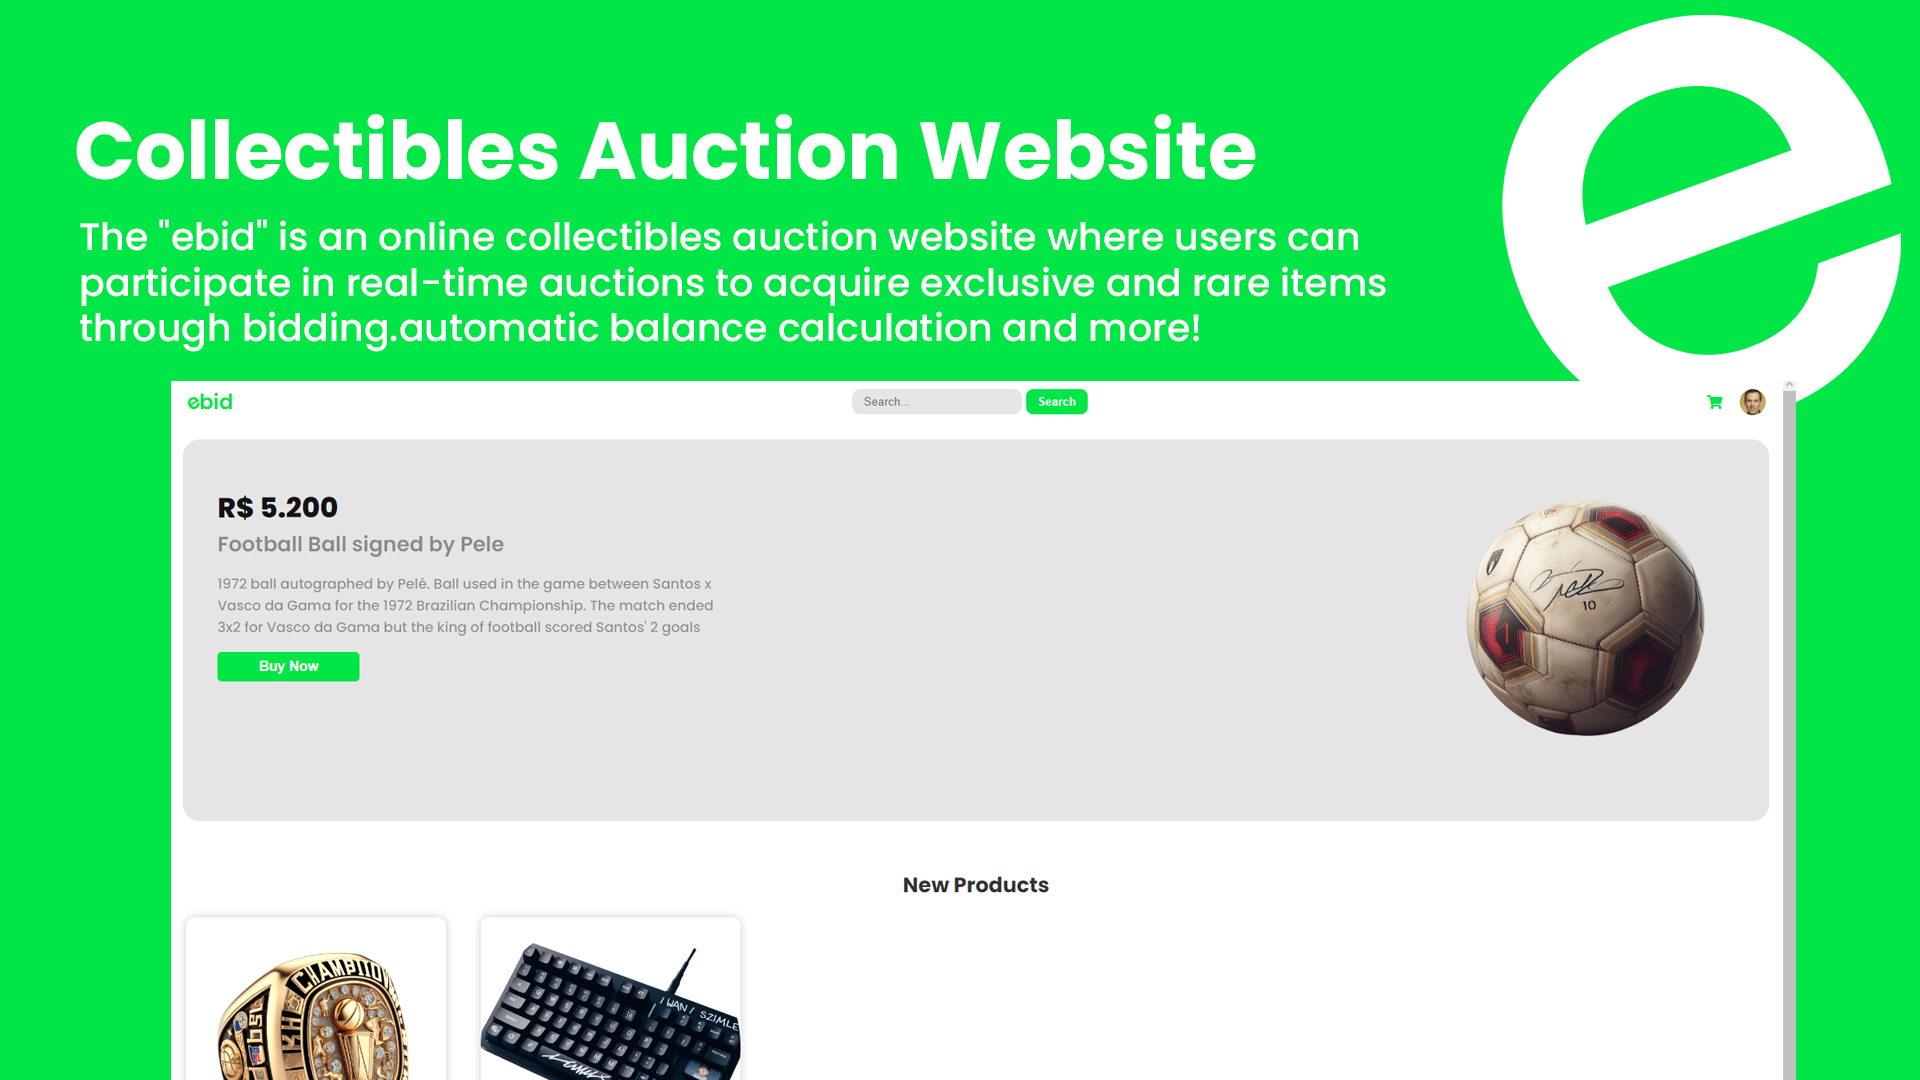
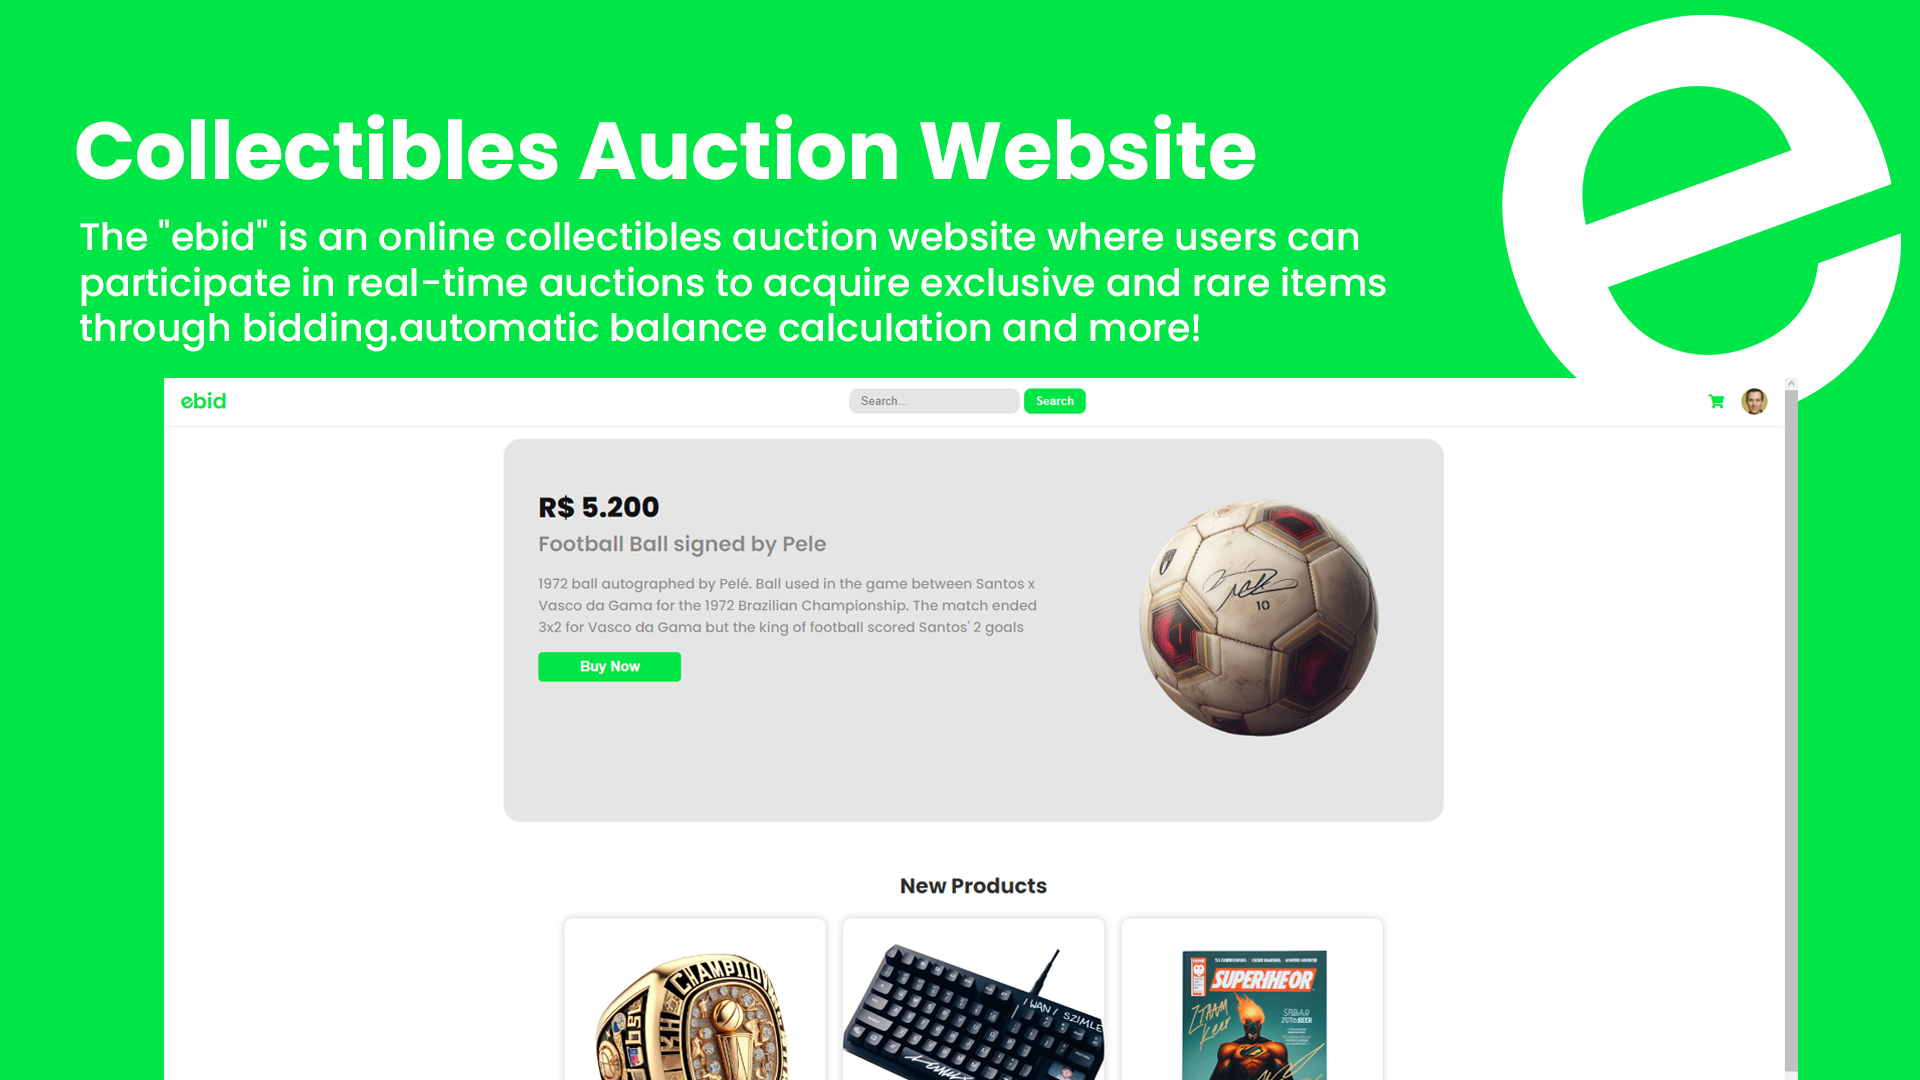
docs: update README

diff --git a/style.css b/style.css
@@ -24,6 +24,7 @@ header {
     background-color: white;
     padding: 10px 20px;
     color: rgba(0,0,0,0.2);
+    box-shadow: rgba(99, 99, 99, 0.1) 0px 2px 8px 0px;
 }
 
 .logo {

diff --git a/README.md b/README.md
@@ -2,14 +2,21 @@
 
 ![Screenshots](./public/screenshot.png)
 
-Welcome to the eBid repository, an online collectibles auction website where users can participate in real-time auctions to acquire exclusive and rare items through bidding. The primary goal is to provide an engaging and exciting experience for collectibles enthusiasts, connecting buyers with sellers interactively.
+Welcome to the eBid repository, an online collectibles auction website designed and developed as part of a project for the "Desenvolvimento de Software para Web 2" (Web Software Development 2) course at UFSCar (Federal University of São Carlos). This project aims to create an engaging and interactive platform for collectibles enthusiasts, facilitating the buying and selling of exclusive and rare items through real-time auctions.
 
 ## Technologies Used
 
-- **HTML/CSS:** For the structure and styling of the website.
-  
-- **JavaScript:** For interactive and dynamic user interface logic.
+- **HTML/CSS:** Responsible for the structure and styling of the website, providing an aesthetically pleasing and user-friendly interface.
 
+- **JavaScript:** Utilized for implementing interactive and dynamic features, enhancing the overall user experience by allowing real-time bidding and updates.
+
+## Collaborators
+
+- **[Jorge Pires](https://github.com/jorgeprj)**
+- **[Giullio Emmanuel](https://github.com/giulliow)**
+
+
+Feel free to reach out to any of the collaborators for questions or further information about specific aspects of the project.
 
 ## License
 
